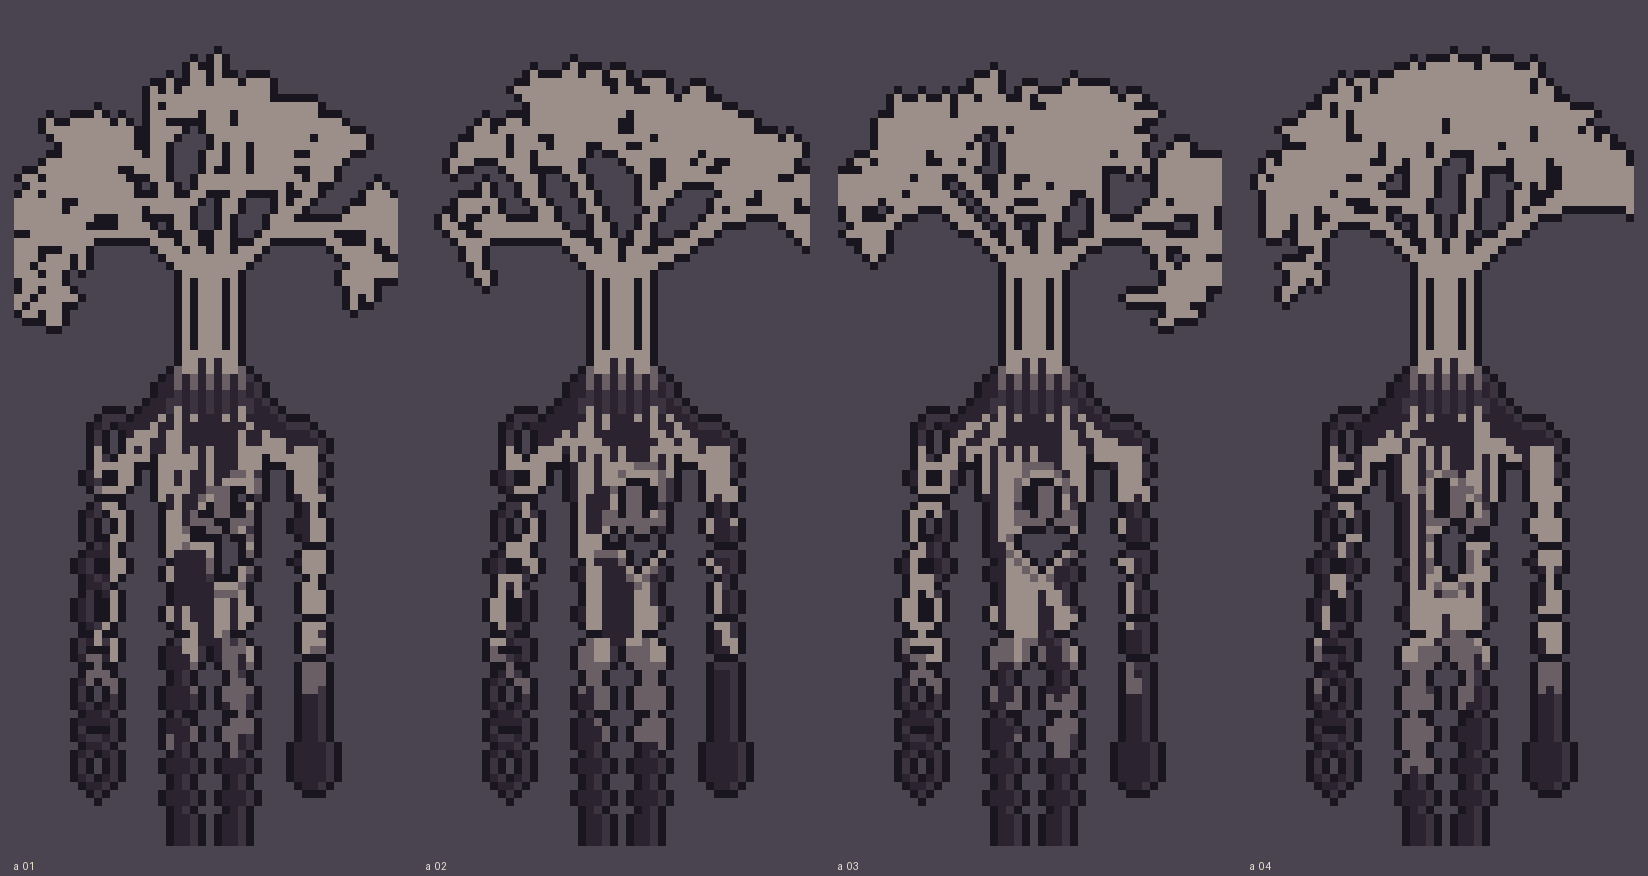
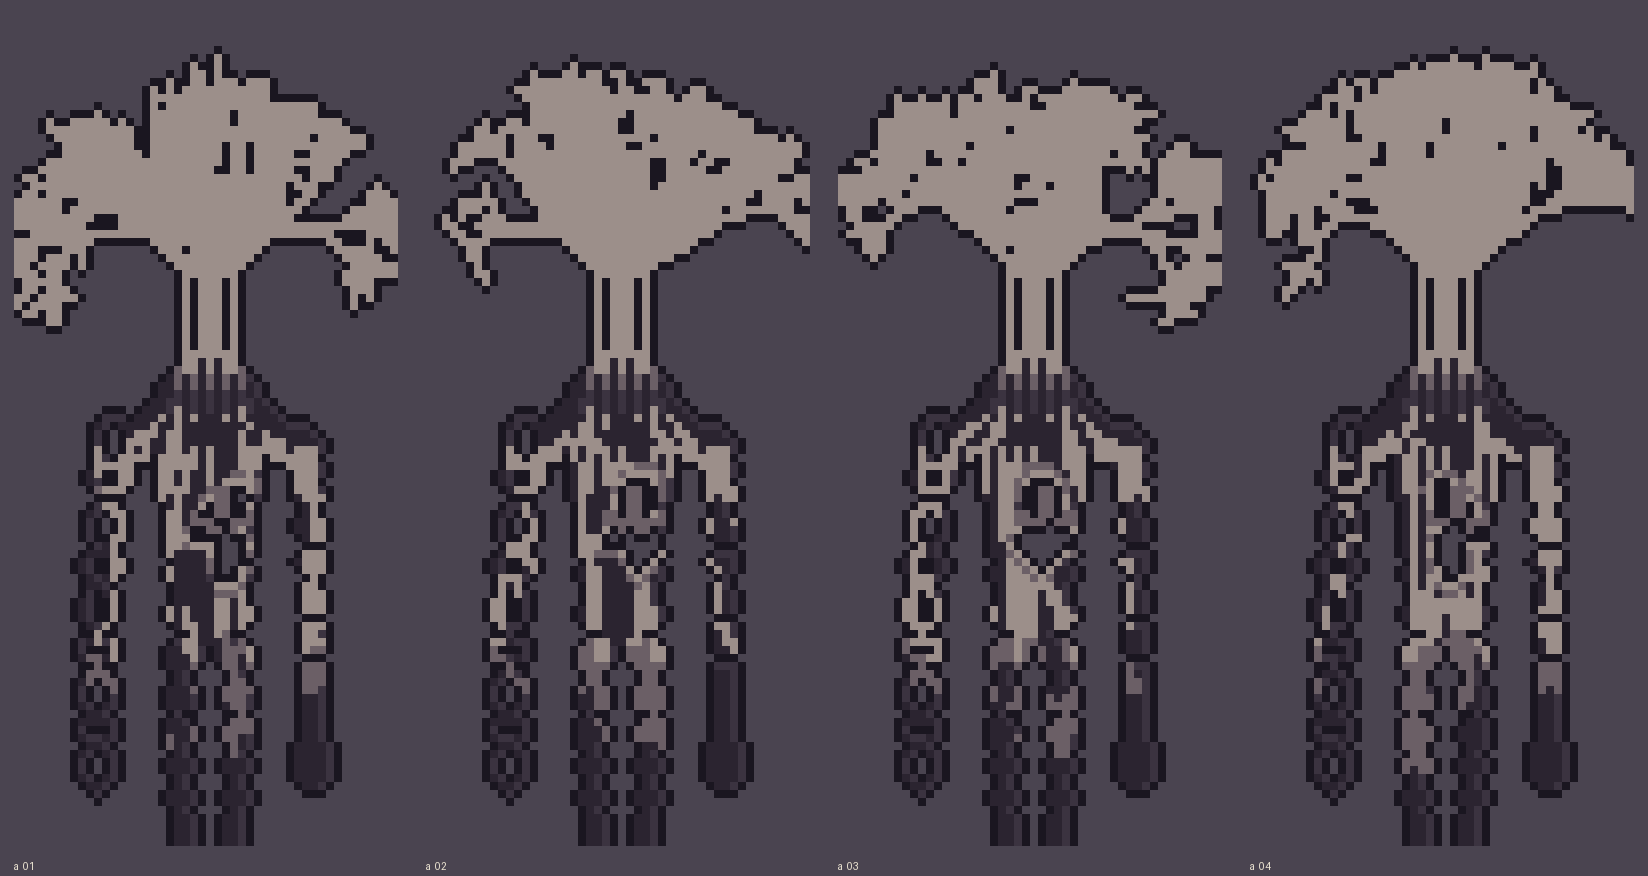
Tree head 11: fill paired eye-like holes near the trunk fork

diff --git a/tools/gen_t11.py b/tools/gen_t11.py
@@ -94,6 +94,28 @@ def chain(c, pts, gap=4.2, ry=3.4, rx=2.5):
                 if ((xx - x) / max(.1, a - 1.3)) ** 2 + ((yy - y) / max(.1, b - 1.3)) ** 2 <= 1: c.g[yy][xx] = '.'
     return links
 
+def fill_eye_holes(c, ymax=44):
+    # 줄기 쪽에 좌우로 나란한 큰 구멍은 눈처럼 보이므로 메운다 (가장자리 쪽 작은 틈은 뇌 질감으로 남긴다)
+    W, H = 48, 104; seen = set(); st = [(0, 0)]
+    while st:
+        x, y = st.pop()
+        if (x, y) in seen or not (0 <= x < W and 0 <= y < ymax) or c.g[y][x] != '.': continue
+        seen.add((x, y)); st += [(x + 1, y), (x - 1, y), (x, y + 1), (x, y - 1)]
+    for x0 in range(W):
+        for y0 in range(ymax):
+            if c.g[y0][x0] == '.' and (x0, y0) not in seen and (x0, y0) not in seen:
+                comp, st = [], [(x0, y0)]; seen2 = {(x0, y0)}
+                while st:
+                    x, y = st.pop(); comp.append((x, y))
+                    for n in ((x + 1, y), (x - 1, y), (x, y + 1), (x, y - 1)):
+                        if n not in seen2 and 0 <= n[0] < W and 0 <= n[1] < ymax and c.g[n[1]][n[0]] == '.' and n not in seen:
+                            seen2.add(n); st.append(n)
+                cx = sum(p[0] for p in comp) / len(comp); cy = sum(p[1] for p in comp) / len(comp)
+                bw = max(p[0] for p in comp) - min(p[0] for p in comp) + 1; bh = max(p[1] for p in comp) - min(p[1] for p in comp) + 1
+                if len(comp) >= 8 and bw >= 2 and bh >= 3 and abs(cx - 24) <= 11 and 12 <= cy <= 30:
+                    for x, y in comp: c.g[y][x] = 'l'
+                for p in comp: seen.add(p)
+
 def figure(seed):
     import gen_shadow as G
     G.W, G.H = 48, 104
@@ -134,6 +156,7 @@ def figure(seed):
     trunk2(c, 5, 51, 31)
     for i in range(4):
         dome(c, 24 + (i - 1.5) * 1.6, 31, math.radians(-90 + (i - 1.5) * rng.uniform(32, 40)), 7.5, 5, rng)
+    fill_eye_holes(c)
     return c
 
 def main():
